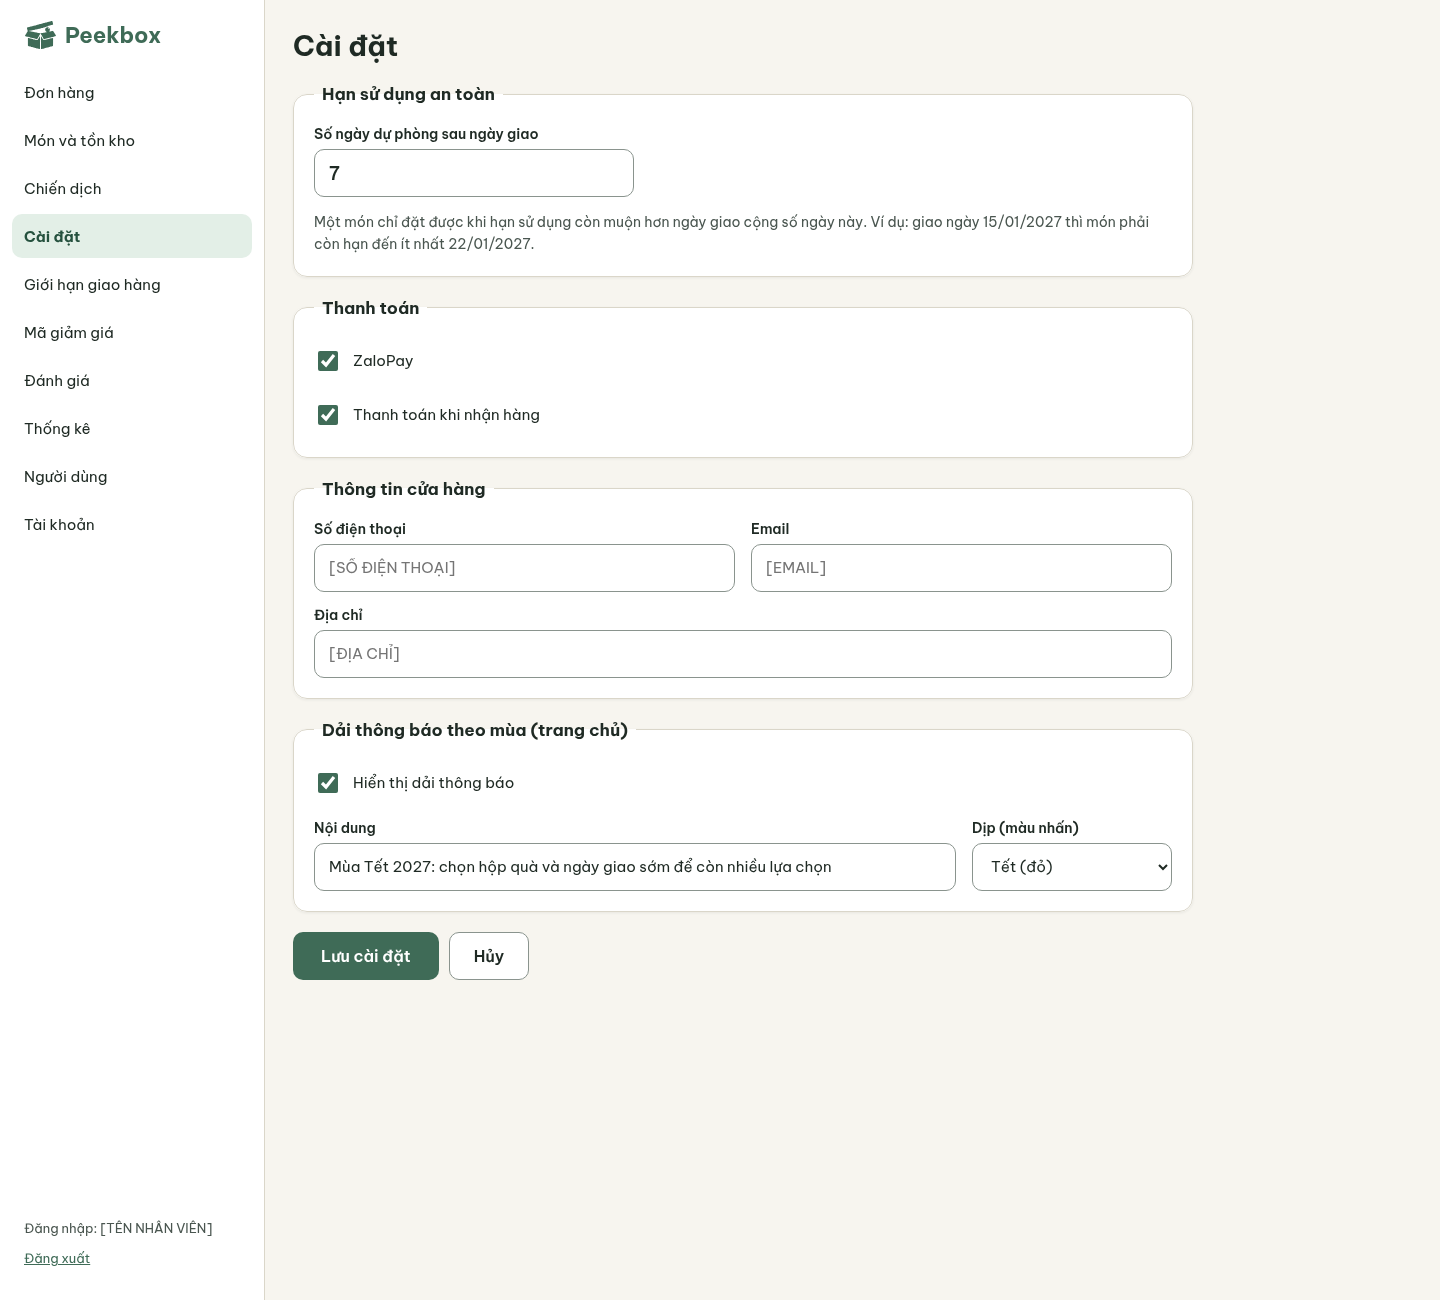
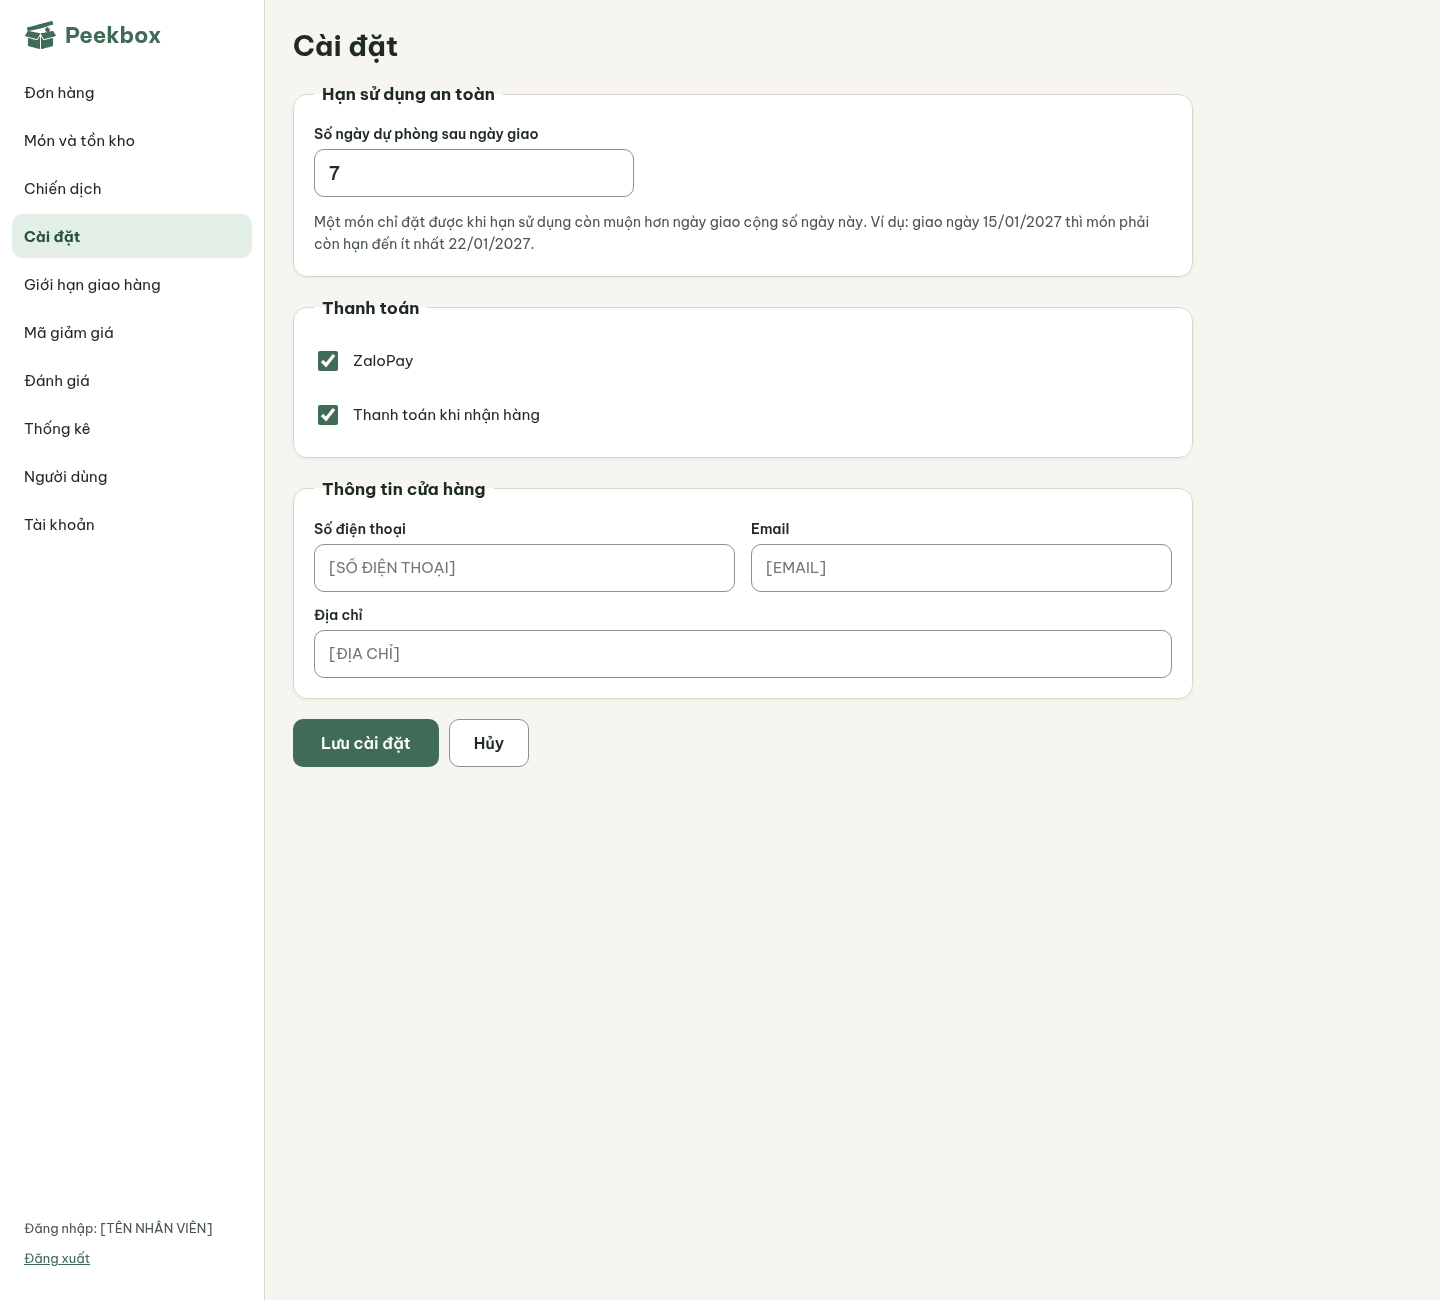
Settings mockups: remove the superseded blocks; stop the seed load on a missing key (#27)
## What changed
Two small, unrelated fixes, kept apart in separate commits.

**1. Settings mockups (follow-up to #25).** The banner now has one
source (the campaign), so the old banner block is removed from the
desktop Settings screen. The mobile Settings screen had a "Giao diện mặc
định" block that no function or decision defines (dark mode follows the
device and remembers the visitor's choice), so it is removed too.
Desktop and mobile now agree.
- `design/source/AdminSettings.dc.html` and `AdminSettings-m.dc.html`:
the block removed.
- `design/mockups/admin/05-settings.desktop.webp` and `.mobile.webp`:
re-rendered lossless from those sources. Everything above the removed
block is pixel-identical to the old image; the old render of each
unchanged source matched its image with 0 differing pixels, so the
renderer is faithful.
- `design/design-notes.md`: the "ignore the block in the settings
mockup" sentence is gone, because the mockups no longer show it.

**2. `products.json` missing keys (answers Tommy's question on #24).** A
key the record reads that is missing from `content/data/products.json`
became a `null` name or a price of `0`, and the seed ran anyway.
`SeedData` now uses `RespectRequiredConstructorParameters = true`, plus
a `Parse(string)` method like the one in #24.
- `tests/Peekbox.Tests/SeedDataTests.cs` removes each key the records
read, one at a time, and expects `JsonException`. The key list comes
[…]

Changed region(s): [[0.1875, 0.5496, 0.5625, 0.6718], [0.1875, 0.7023, 0.3125, 0.7634], [0.6875, 0.6107, 0.75, 0.6718]]

diff --git a/design/source/AdminSettings.dc.html b/design/source/AdminSettings.dc.html
@@ -50,15 +50,6 @@ a{color:#3F6B57}
 <div style="display:flex;flex-direction:column;gap:6px"><label for="ad" style="font-size:14px;font-weight:600">Địa chỉ</label><input id="ad" placeholder="[ĐỊA CHỈ]" style="box-sizing:border-box;min-height:48px;padding:0 14px;border:1px solid #8A948E;border-radius:10px;font-family:inherit;font-size:15px;background:#FFFFFF;color:#1F2A24"></div>
 </fieldset>
 
-<fieldset style="margin:0;border:1px solid #DAD6C9;border-radius:14px;box-shadow:0 1px 3px rgba(31,42,36,0.07);background:#FFFFFF;padding:20px;display:flex;flex-direction:column;gap:14px">
-<legend style="padding:0 8px;font-size:17px;font-weight:700">Dải thông báo theo mùa (trang chủ)</legend>
-<label style="display:flex;align-items:center;gap:12px;min-height:44px;font-size:15px"><input type="checkbox" checked style="width:20px;height:20px;accent-color:#3F6B57"><span>Hiển thị dải thông báo</span></label>
-<div style="display:grid;grid-template-columns:1fr 200px;gap:16px">
-<div style="display:flex;flex-direction:column;gap:6px"><label for="tx" style="font-size:14px;font-weight:600">Nội dung</label><input id="tx" value="Mùa Tết 2027: chọn hộp quà và ngày giao sớm để còn nhiều lựa chọn" style="box-sizing:border-box;min-height:48px;padding:0 14px;border:1px solid #8A948E;border-radius:10px;font-family:inherit;font-size:15px;background:#FFFFFF;color:#1F2A24"></div>
-<div style="display:flex;flex-direction:column;gap:6px"><label for="oc" style="font-size:14px;font-weight:600">Dịp (màu nhấn)</label><select id="oc" style="box-sizing:border-box;min-height:48px;padding:0 14px;border:1px solid #8A948E;border-radius:10px;font-family:inherit;font-size:15px;background:#FFFFFF;color:#1F2A24"><option>Tết (đỏ)</option></select></div>
-</div>
-</fieldset>
-
 <div style="display:flex;gap:10px"><button style="min-height:48px;padding:0 28px;border:0;border-radius:10px;background:#3F6B57;color:#FFFFFF;font-family:inherit;font-size:16px;font-weight:600">Lưu cài đặt</button><button style="min-height:48px;padding:0 24px;border:1px solid #8A948E;border-radius:10px;background:#FFFFFF;color:#1F2A24;font-family:inherit;font-size:16px;font-weight:600">Hủy</button></div>
 </form>
 </div>

diff --git a/design/source/AdminSettings-m.dc.html b/design/source/AdminSettings-m.dc.html
@@ -49,11 +49,6 @@ a{color:#3F6B57}
 <div style="display:flex;flex-direction:column;gap:6px"><label for="ad" style="font-size:14px;font-weight:600">Địa chỉ</label><input id="ad" placeholder="[ĐỊA CHỈ]" style="box-sizing:border-box;min-height:48px;padding:0 14px;border:1px solid #8A948E;border-radius:10px;font-family:inherit;font-size:16px;background:#FFFFFF;color:#1F2A24"></div>
 </fieldset>
 
-<fieldset style="margin:0;border:1px solid #DAD6C9;border-radius:14px;box-shadow:0 1px 3px rgba(31,42,36,0.07);background:#FFFFFF;padding:16px;display:flex;flex-direction:column;gap:12px">
-<legend style="padding:0 6px;font-size:16px;font-weight:700">Giao diện</legend>
-<div style="display:flex;flex-direction:column;gap:6px"><label for="dt" style="font-size:14px;font-weight:600">Giao diện mặc định</label><select id="dt" style="box-sizing:border-box;min-height:48px;padding:0 12px;border:1px solid #8A948E;border-radius:10px;font-family:inherit;font-size:16px;background:#FFFFFF;color:#1F2A24"><option>Theo thiết bị của khách</option></select><span style="font-size:12px;color:#4A5650;line-height:1.5">Khách luôn có thể đổi bằng nút ở đầu trang.</span></div>
-</fieldset>
-
 <div style="display:flex;gap:8px"><button style="flex:1;min-height:48px;border:0;border-radius:10px;background:#3F6B57;color:#FFFFFF;font-family:inherit;font-size:15px;font-weight:600">Lưu cài đặt</button><button style="flex:1;min-height:48px;border:1px solid #8A948E;border-radius:10px;background:#FFFFFF;color:#1F2A24;font-family:inherit;font-size:15px;font-weight:600">Hủy</button></div>
 </form>
 </div>

diff --git a/tests/Peekbox.Tests/SeedDataTests.cs b/tests/Peekbox.Tests/SeedDataTests.cs
@@ -1,0 +1,49 @@
+using System.Text.Json;
+using System.Text.Json.Nodes;
+using Peekbox.Web.Data;
+
+namespace Peekbox.Tests;
+
+// products.json is read when the database is seeded. A key the code reads that is missing from it must
+// stop the load, not turn into a null name or a price of 0. The keys come from the records themselves, so
+// a field added to a record later is covered without editing this test. (Keys the records do not read,
+// such as the English ones, may be missing.)
+public class SeedDataTests
+{
+    private static JsonObject Original() => JsonNode.Parse(File.ReadAllText(SeedData.FilePath))!.AsObject();
+
+    // The JSON key of each constructor parameter of a record (the file uses snake_case).
+    private static List<string> KeysRead(Type record) =>
+        record.GetConstructors().Single().GetParameters()
+            .Select(p => JsonNamingPolicy.SnakeCaseLower.ConvertName(p.Name!)).ToList();
+
+    [Fact]
+    public void A_missing_top_level_key_stops_the_load()
+    {
+        var keys = KeysRead(typeof(SeedFile));
+        Assert.NotEmpty(keys);
+
+        foreach (var key in keys)
+        {
+            var node = Original();
+            Assert.True(node.Remove(key), $"{key} is not in the file");
+            Assert.Throws<JsonException>(() => SeedData.Parse(node.ToJsonString()));
+        }
+    }
+
+    [Theory]
+    [InlineData("categories", typeof(SeedCategory))]
+    [InlineData("products", typeof(SeedProduct))]
+    public void A_missing_key_inside_the_first_item_stops_the_load(string list, Type record)
+    {
+        var keys = KeysRead(record);
+        Assert.NotEmpty(keys);
+
+        foreach (var key in keys)
+        {
+            var node = Original();
+            Assert.True(node[list]!.AsArray()[0]!.AsObject().Remove(key), $"{list}[0].{key} is not in the file");
+            Assert.Throws<JsonException>(() => SeedData.Parse(node.ToJsonString()));
+        }
+    }
+}

diff --git a/src/Peekbox.Web/Data/SeedData.cs b/src/Peekbox.Web/Data/SeedData.cs
@@ -12,13 +12,17 @@ public static class SeedData
     {
         PropertyNamingPolicy = JsonNamingPolicy.SnakeCaseLower,
         RespectNullableAnnotations = true,
+        // Without this a key missing from the file is not an error: text becomes null and numbers become 0.
+        RespectRequiredConstructorParameters = true,
     };
 
     public static string FilePath => Path.Combine(AppContext.BaseDirectory, "Seed", "products.json");
 
     public static SeedFile Load(string path) =>
-        JsonSerializer.Deserialize<SeedFile>(File.ReadAllText(path), JsonOptions)
-            ?? throw new InvalidOperationException($"{path} is empty.");
+        Parse(File.ReadAllText(path)) ?? throw new InvalidOperationException($"{path} is empty.");
+
+    // Throws JsonException if the JSON is broken or a key is missing.
+    public static SeedFile? Parse(string json) => JsonSerializer.Deserialize<SeedFile>(json, JsonOptions);
 
     // Safe to run again: a table that already has rows is left alone.
     public static void Run(DbContext context)

diff --git a/design/design-notes.md b/design/design-notes.md
@@ -49,7 +49,7 @@ Be Vietnam Pro (400, 600, 700). It supports Vietnamese diacritics well. Body tex
 3. **Guest checkout.** No customer accounts. Order status is on the order confirmation page.
 4. **Delivery only** for now. Payment by ZaloPay or cash on delivery.
 5. **Vietnamese only.** A light/dark button sits in every customer header, directly to the left of the cart. There is no language switch.
-6. **Admin** has 11 screens (login, orders, items and stock, campaigns, settings, delivery cutoffs, coupons, reviews, stats, users, account). On mobile the menu becomes a scrolling row of tabs and tables become cards. The season banner is edited on the campaigns screen only: ignore the "Dải thông báo theo mùa" block in the settings mockup (`admin/05-settings`), which is superseded.
+6. **Admin** has 11 screens (login, orders, items and stock, campaigns, settings, delivery cutoffs, coupons, reviews, stats, users, account). On mobile the menu becomes a scrolling row of tabs and tables become cards.
 
 ## Placeholders in the mockups
 Anything in [BRACKETS] is a fact the team must fill in. Brands ("Thương hiệu A"), prices, stock, reviews and statistics are samples.
